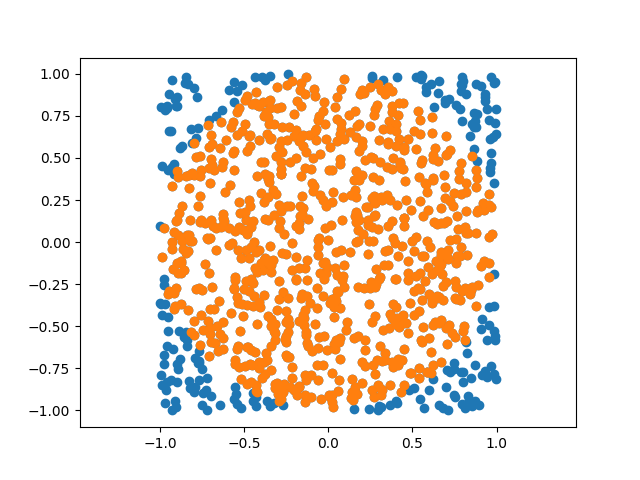
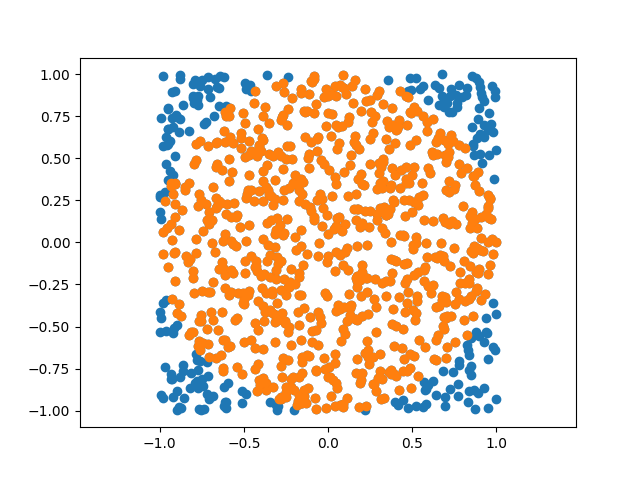
sheet08 abgabe

diff --git a/sheet08/sheet08-solution/damped_oscillator_argparse.py b/sheet08/sheet08-solution/damped_oscillator_argparse.py
@@ -16,13 +16,13 @@ def damped_oscillation(t, A, gamma, omega):
 time_steps = np.linspace(0, 10, num=500)
 
 parser = argparse.ArgumentParser()
-parser.add_argument("-A", "--amplitude", "-amplitude", type=float, default=1.0,
+parser.add_argument("-A", "--amplitude", "-amplitude", type=float, default=2.5,
                     help="The initial amplitude.")
 
-parser.add_argument("-g", "--gamma", "-gamma", type=float, default=0.0,
+parser.add_argument("-g", "--gamma", "-gamma", type=float, default=0.1,
                     help="The damping coefficient.")
 
-parser.add_argument("-o", "--omega", "-omega", type=float, required=True,
+parser.add_argument("-o", "--omega", "-omega", type=float, default=10,
                     help="The natural frequency.")
 args = parser.parse_args()
 
@@ -30,6 +30,7 @@ args = parser.parse_args()
 plt.scatter(time_steps, damped_oscillation(
     time_steps, args.amplitude, args.gamma, args.omega))
 plt.xlabel("Zeit t")
+plt.title("damped oscillator")
 plt.ylabel("Auslenkung x(t)")
 plt.legend(['damped oscillation'])
 plt.savefig('damped_oscillator_argparse.png')

diff --git a/sheet07/sheet07-solution/Python/list_comprehension.py b/sheet07/sheet07-solution/Python/list_comprehension.py
@@ -27,10 +27,7 @@ def point_in_circle(p, center=None, radius=None):
     p = np.array(p)
     center = np.array(center)
     d = np.linalg.norm(p - center)
-    if d < radius:
-        return True
-    else:
-        return False
+    return d < radius
 
 
 # TODO: generate a list of 1000 random points in a square of side length 2.0 using generate_random_point_in_square and list comprehension
@@ -38,7 +35,8 @@ N = 1000
 full_list_of_points = [generate_random_point_in_square(2) for _ in range(N)]
 
 # TODO: generate a list of those points in full_list_of_points that are within a radius of 1.0 of the origin (again using list comprehension)
-filtered_list_of_points = [point for point in full_list_of_points if point_in_circle(point, (0, 0), 1.0)]
+filtered_list_of_points = [
+    point for point in full_list_of_points if point_in_circle(point, (0, 0), 1.0)]
 
 # TODO: print the ratio of the number of points in filtered_list_of_points to the total number of generated points
 N_filtered = len(filtered_list_of_points)

diff --git a/sheet08/sheet08-solution/numpy-arrays.py b/sheet08/sheet08-solution/numpy-arrays.py
@@ -3,9 +3,9 @@ np.random.seed(42)
 data = np.random.rand(100, 2)
 
 print(np.size(data))
-print(data[0,1])
-print(data[-1,:])
-#print(data[:,10]) #gibt eine Fehlermeldung aus, da wir nur 2 Spalten haben 
+print(data[0, 1])
+print(data[-1, :])
+# print(data[:,10]) #gibt eine Fehlermeldung aus, da wir nur 2 Spalten haben
 print(data[50:59])
-print(data[:,0])
-print(np.mean(data[50:99,0]))
+print(data[:, 0])
+print(np.mean(data[50:99, 0]))

diff --git a/sheet08/sheet08-solution/damped_oscillation.py b/sheet08/sheet08-solution/damped_oscillation.py
@@ -16,6 +16,7 @@ time_steps = np.linspace(0, 10, num=500)
 
 plt.scatter(time_steps, damped_oscillation(time_steps, 1, .2, 2*np.pi))
 plt.xlabel("Zeit t")
+plt.title("damped oscillator")
 plt.ylabel("Auslenkung x(t)")
 plt.legend(['damped oscillation'])
 plt.savefig('damped_oscillation.png')

diff --git a/sheet08/sheet08-solution/array-slicing.py b/sheet08/sheet08-solution/array-slicing.py
@@ -4,10 +4,11 @@ import matplotlib.pyplot as plt
 
 data = np.zeros((10, 10))
 
+print(np.size(data[:, 0]))
+
 data[1:7, 3] = 1
 
-for i in (2, 6):
-    data[i, 5:7] = 1
+data[[2, 6], 5:7] = 1
 
 print(data)
 
